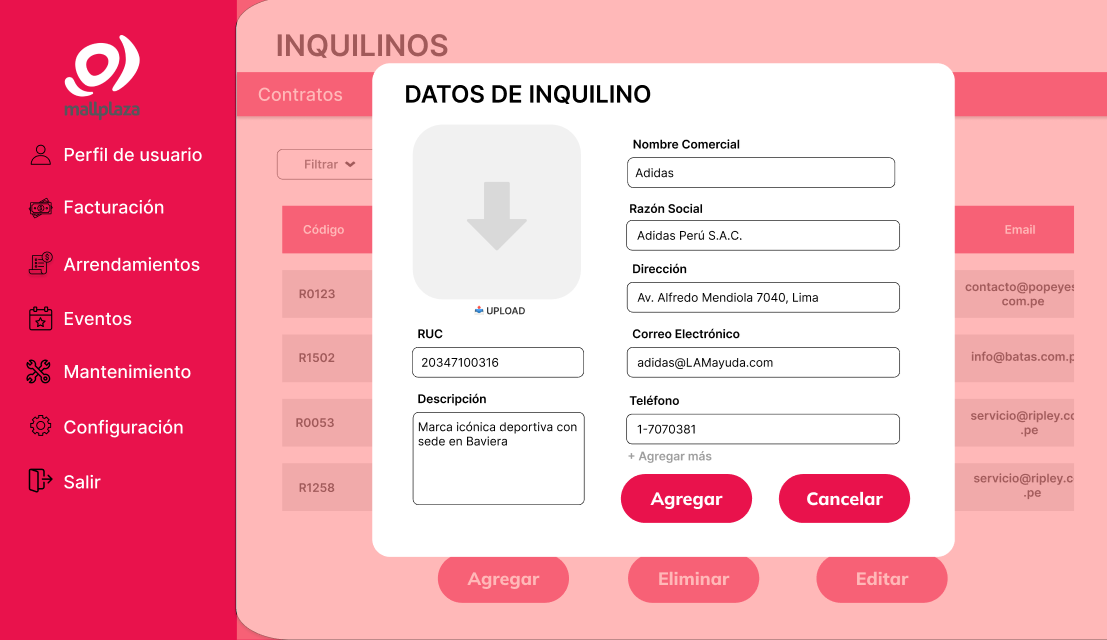
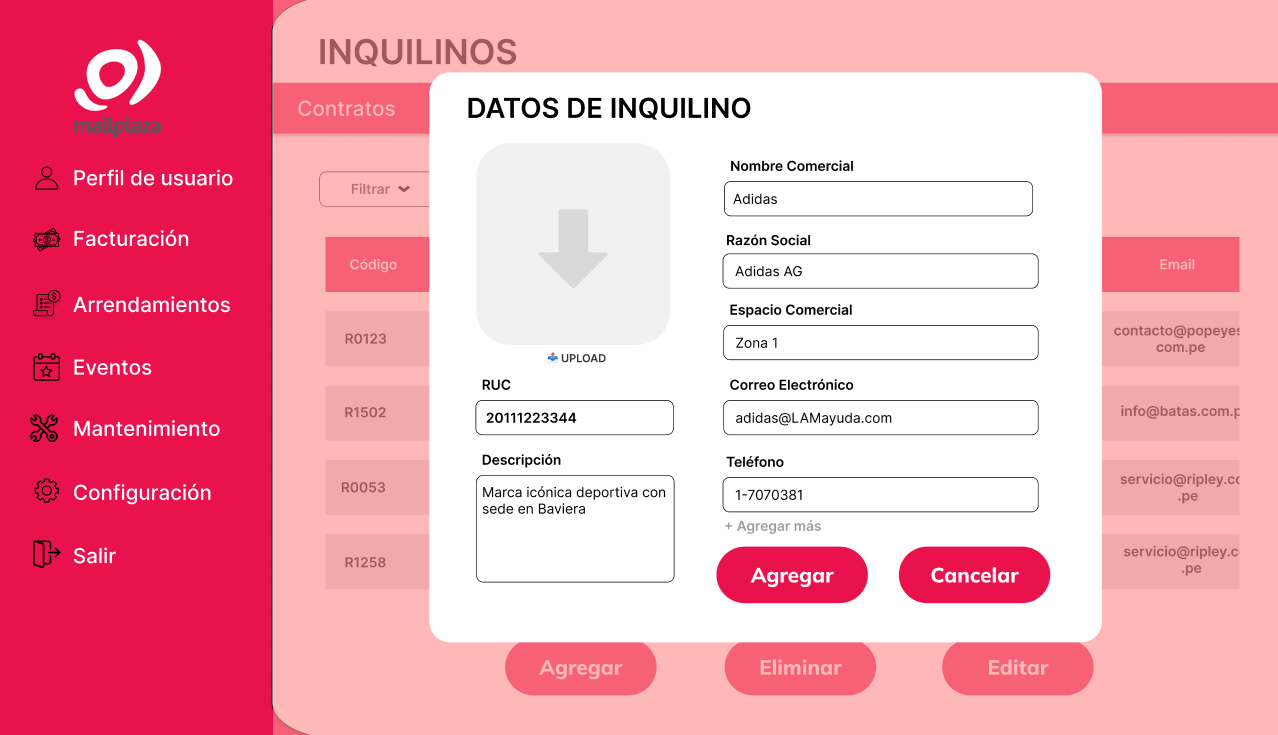
update

diff --git a/8/8.2/8.2.md b/8/8.2/8.2.md
@@ -7,8 +7,7 @@
 |Actividad| Descripcion       | 
 |---------|-------------------|
 | 1       | Luego ingresar a la sección de "Arrendamientos" y darle click a la sección de "Inquilinos" se mostrará la pantalla I-019 donde se podrá visualizar la tabla de los inquilinos los cuales tienen un registro en MallPlaza<br><br> ![image](I019.png)| 
-| 2       | texto <br><br>![image](I020.png)| 
-| 3       | texto <br><br>![image](I021.png)|
-| 4       | texto <br><br>![image](I022.png)| 
-| 5       | texto <br><br>![image](I023.png)|
-| 6       | texto <br><br>![image](I024.png)|
+| 2       | Si el usuario presiona el botón "Agregar" tendrá la opción de poder ingresar los datos de un nuevo inquilino que quiere registrar, se le mostrará la pantalla dei nterfaz I-020. <br><br>![image](I020.png)| 
+| 3       | En la pantalla I-021 se muestra el registro del inquilino agregado correctamente <br><br>![image](I021.png)|
+| 4       | El usuario tendrá la oportunidad de Editar cualquier registro de un usuario luego de seleccionar al inquilino y presionar el botón "Eliminar", se le mostrará la ventana emergente I-023<br><br>![image](I023.png)|
+| 5       | ![image](I024.png)|
